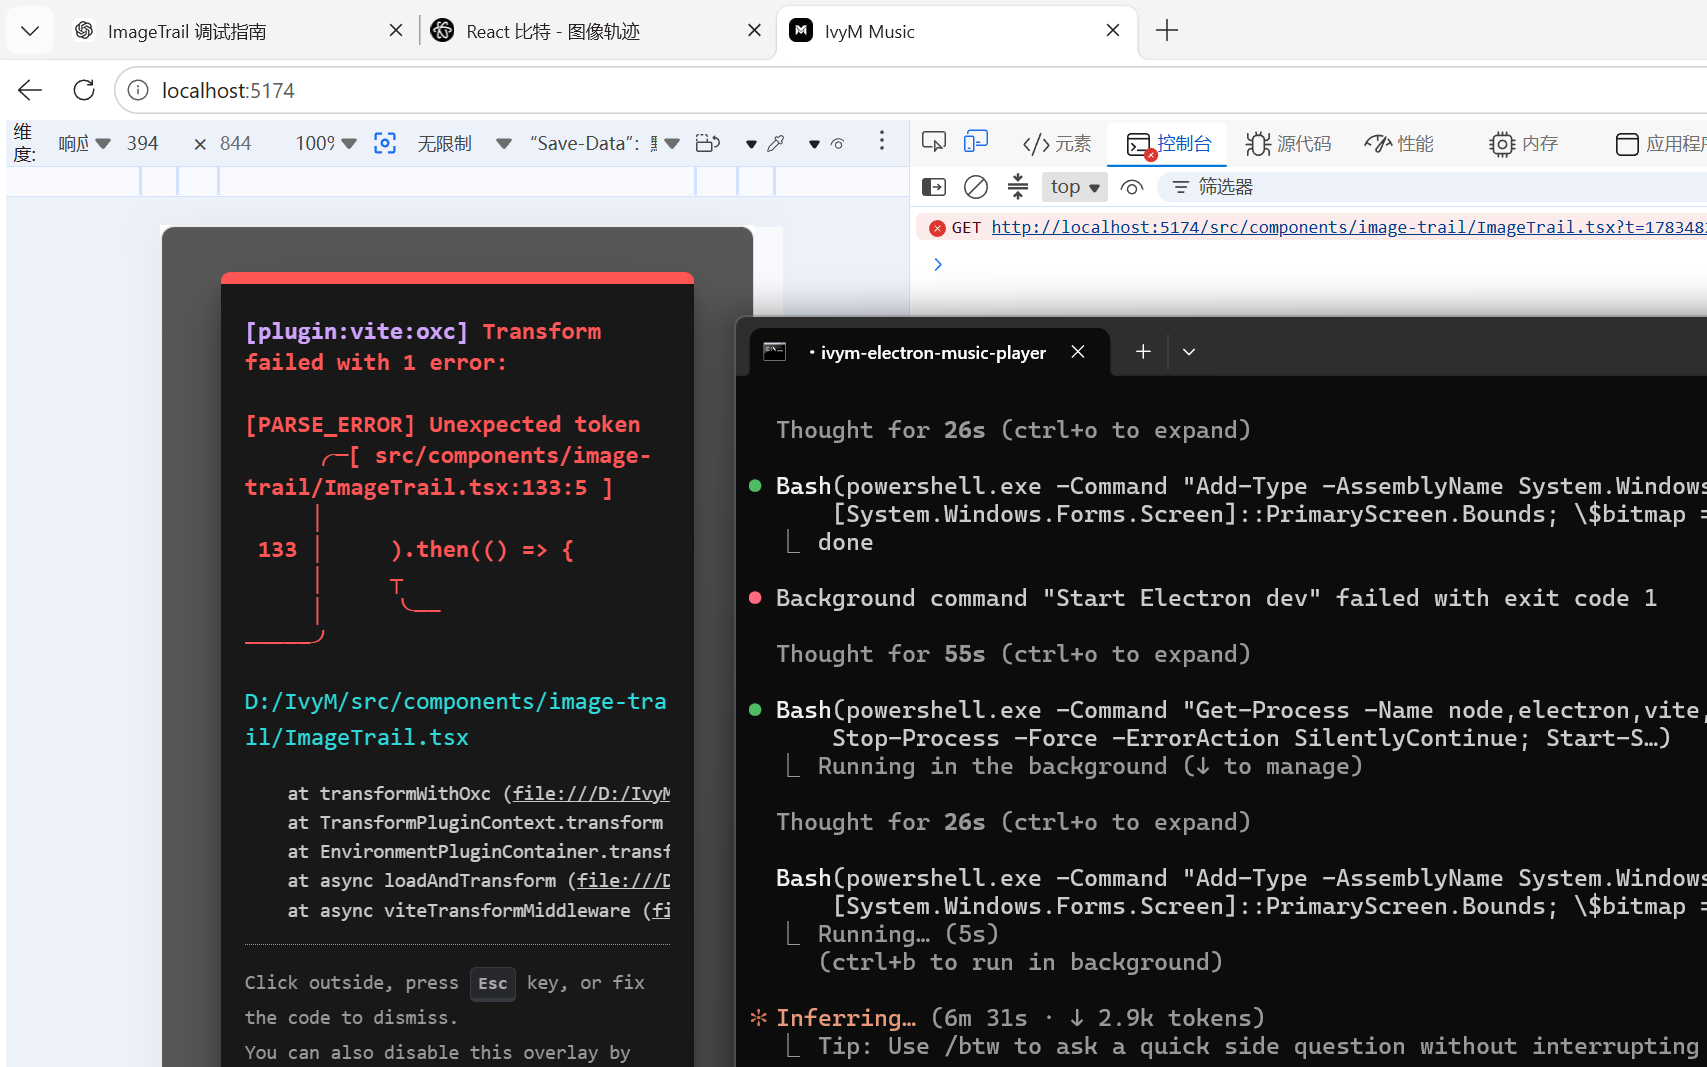
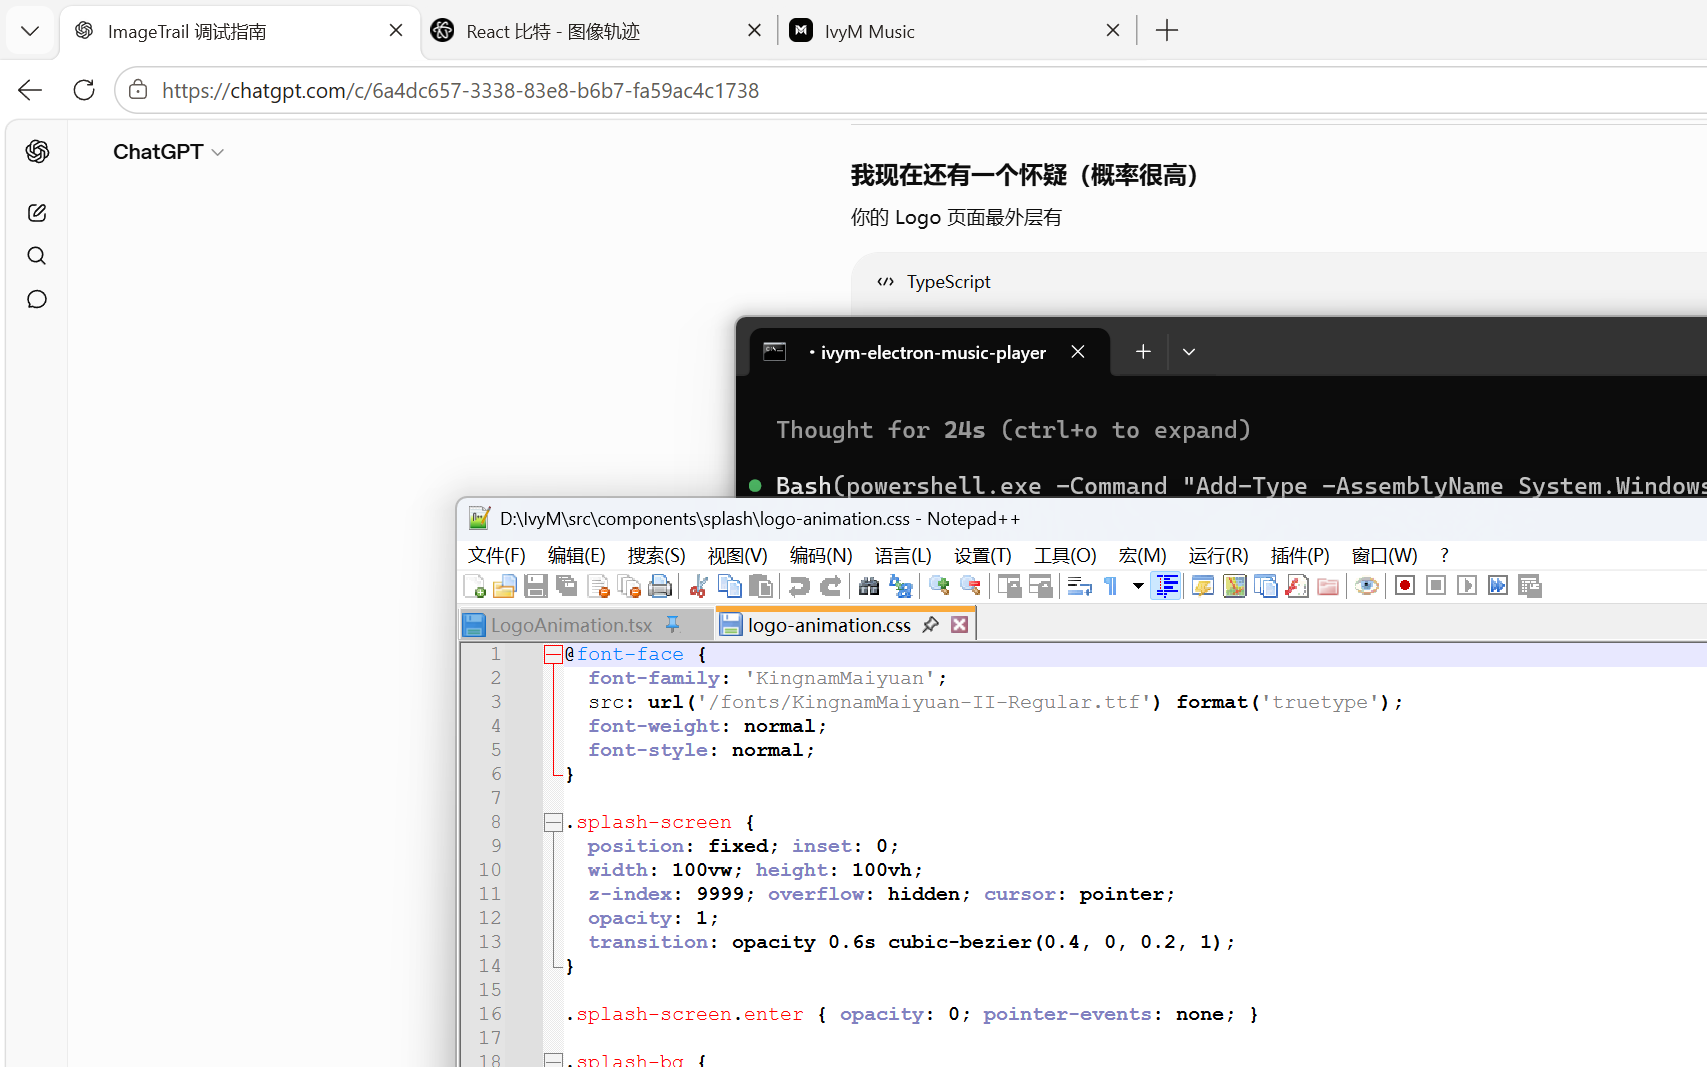
v8.7: switch to Variant 5 - rotation + direction offset, threshold 80

diff --git a/src/components/image-trail/ImageTrail.tsx b/src/components/image-trail/ImageTrail.tsx
@@ -37,7 +37,7 @@ class ImageItem {
   getRect() { if (this.DOM.el) this.rect = this.DOM.el.getBoundingClientRect(); }
 }
 
-class ImageTrailVariant1 {
+class ImageTrailVariant5 {
   container: HTMLElement;
   DOM: { el: HTMLElement };
   images: ImageItem[];
@@ -50,6 +50,7 @@ class ImageTrailVariant1 {
   mousePos: { x: number; y: number };
   lastMousePos: { x: number; y: number };
   cacheMousePos: { x: number; y: number };
+  lastAngle: number;
 
   constructor(container: HTMLElement) {
     this.container = container;
@@ -60,10 +61,11 @@ class ImageTrailVariant1 {
     this.zIndexVal = 1;
     this.activeImagesCount = 0;
     this.isIdle = true;
-    this.threshold = 10;  // 降低阈值
+    this.threshold = 80;
     this.mousePos = { x: 0, y: 0 };
     this.lastMousePos = { x: 0, y: 0 };
     this.cacheMousePos = { x: 0, y: 0 };
+    this.lastAngle = 0;
 
     const handlePointerMove = (ev: Event) => {
       const rect = container.getBoundingClientRect();
@@ -86,40 +88,62 @@ class ImageTrailVariant1 {
 
   render() {
     const distance = getMouseDistance(this.mousePos, this.lastMousePos);
+    if (distance > this.threshold) {
+      this.showNextImage();
+      this.lastMousePos = { ...this.mousePos };
+    }
     this.cacheMousePos.x = lerp(this.cacheMousePos.x, this.mousePos.x, 0.1);
     this.cacheMousePos.y = lerp(this.cacheMousePos.y, this.mousePos.y, 0.1);
-    if (distance > this.threshold) { this.showNextImage(); this.lastMousePos = { ...this.mousePos }; }
     if (this.isIdle && this.zIndexVal !== 1) this.zIndexVal = 1;
     requestAnimationFrame(() => this.render());
   }
 
   showNextImage() {
-    console.log('show');  // 调试用
+    const dx = this.mousePos.x - this.cacheMousePos.x;
+    const dy = this.mousePos.y - this.cacheMousePos.y;
+    let angle = Math.atan2(dy, dx) * (180 / Math.PI);
+    if (angle < 0) angle += 360;
+    if (angle > 90 && angle <= 270) angle += 180;
+    const isMovingClockwise = angle >= this.lastAngle;
+    this.lastAngle = angle;
+    let startAngle = isMovingClockwise ? angle - 10 : angle + 10;
+    const dist = Math.sqrt(dx * dx + dy * dy);
+    let ndx = dx, ndy = dy;
+    if (dist !== 0) { ndx /= dist; ndy /= dist; }
+    ndx *= dist / 150;
+    ndy *= dist / 150;
+
     ++this.zIndexVal;
     this.imgPosition = this.imgPosition < this.imagesTotal - 1 ? this.imgPosition + 1 : 0;
     const img = this.images[this.imgPosition];
     gsap.killTweensOf(img.DOM.el!);
+
     gsap.timeline({ onStart: () => this.onImageActivated(), onComplete: () => this.onImageDeactivated() })
-      .fromTo(img.DOM.el!, { opacity: 1, scale: 1, zIndex: this.zIndexVal, x: this.cacheMousePos.x - img.rect!.width / 2, y: this.cacheMousePos.y - img.rect!.height / 2 },
-        { duration: 0.4, ease: 'power1', x: this.mousePos.x - img.rect!.width / 2, y: this.mousePos.y - img.rect!.height / 2 }, 0)
-      .to(img.DOM.el!, { duration: 0.4, ease: 'power3', opacity: 0, scale: 0.2 }, 0.4);
+      .fromTo(img.DOM.el!,
+        { opacity: 1, filter: 'brightness(80%)', scale: 0.1, zIndex: this.zIndexVal,
+          x: this.cacheMousePos.x - img.rect!.width / 2, y: this.cacheMousePos.y - img.rect!.height / 2,
+          rotation: startAngle },
+        { duration: 1, ease: 'power2', scale: 1, filter: 'brightness(100%)',
+          x: this.mousePos.x - img.rect!.width / 2 + ndx * 70,
+          y: this.mousePos.y - img.rect!.height / 2 + ndy * 70,
+          rotation: this.lastAngle }, 0)
+      .to(img.DOM.el!, { duration: 0.4, ease: 'expo', opacity: 0 }, 0.5)
+      .to(img.DOM.el!, { duration: 1.5, ease: 'power4', x: `+=${ndx * 120}`, y: `+=${ndy * 120}` }, 0.05);
   }
 
   onImageActivated() { this.activeImagesCount++; this.isIdle = false; }
   onImageDeactivated() { this.activeImagesCount--; if (this.activeImagesCount === 0) this.isIdle = true; }
 }
 
-const variantMap: Record<number, typeof ImageTrailVariant1> = { 1: ImageTrailVariant1 };
+const variantMap: Record<number, typeof ImageTrailVariant5> = { 5: ImageTrailVariant5 };
 
 interface ImageTrailProps { items?: string[]; variant?: number; }
 
-export default function ImageTrail({ items = [], variant = 1 }: ImageTrailProps) {
+export default function ImageTrail({ items = [], variant = 5 }: ImageTrailProps) {
   const containerRef = useRef<HTMLDivElement>(null);
 
   useEffect(() => {
     if (!containerRef.current) return;
-
-    // 等图片都加载完成再初始化 GSAP
     Promise.all(
       Array.from(containerRef.current.querySelectorAll('.content__img-inner')).map(el => {
         const bg = getComputedStyle(el).backgroundImage;
@@ -132,7 +156,7 @@ export default function ImageTrail({ items = [], variant = 1 }: ImageTrailProps)
         });
       })
     ).then(() => {
-      const Cls = variantMap[variant] || variantMap[1];
+      const Cls = variantMap[variant] || variantMap[5];
       new Cls(containerRef.current!);
     });
   }, [variant, items]);